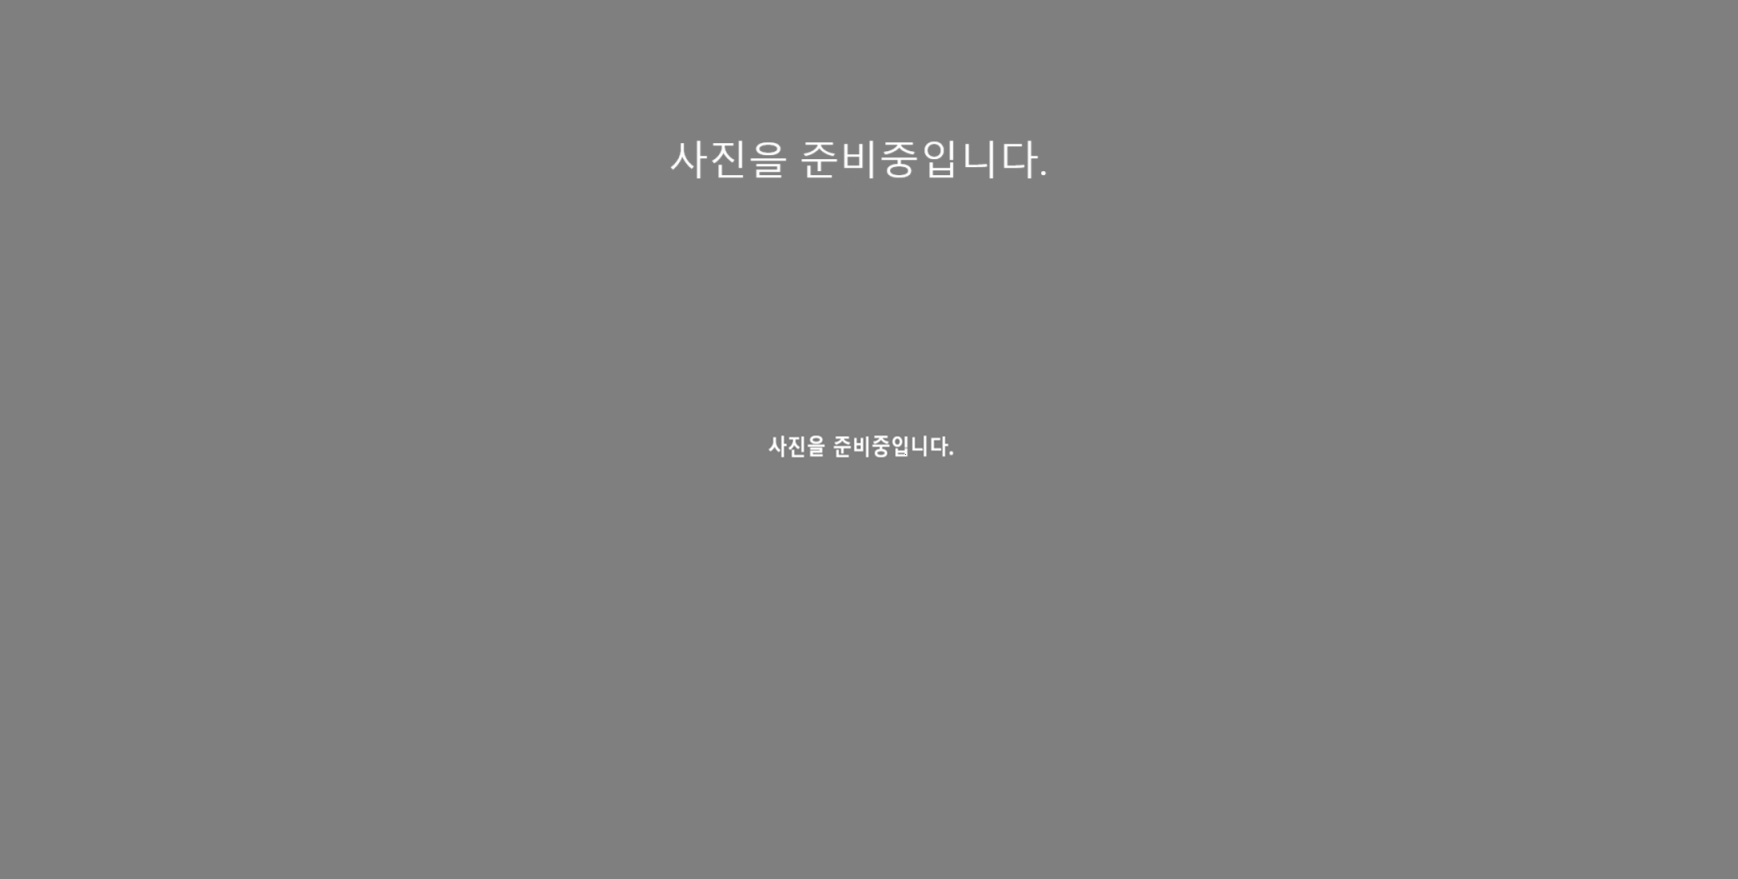
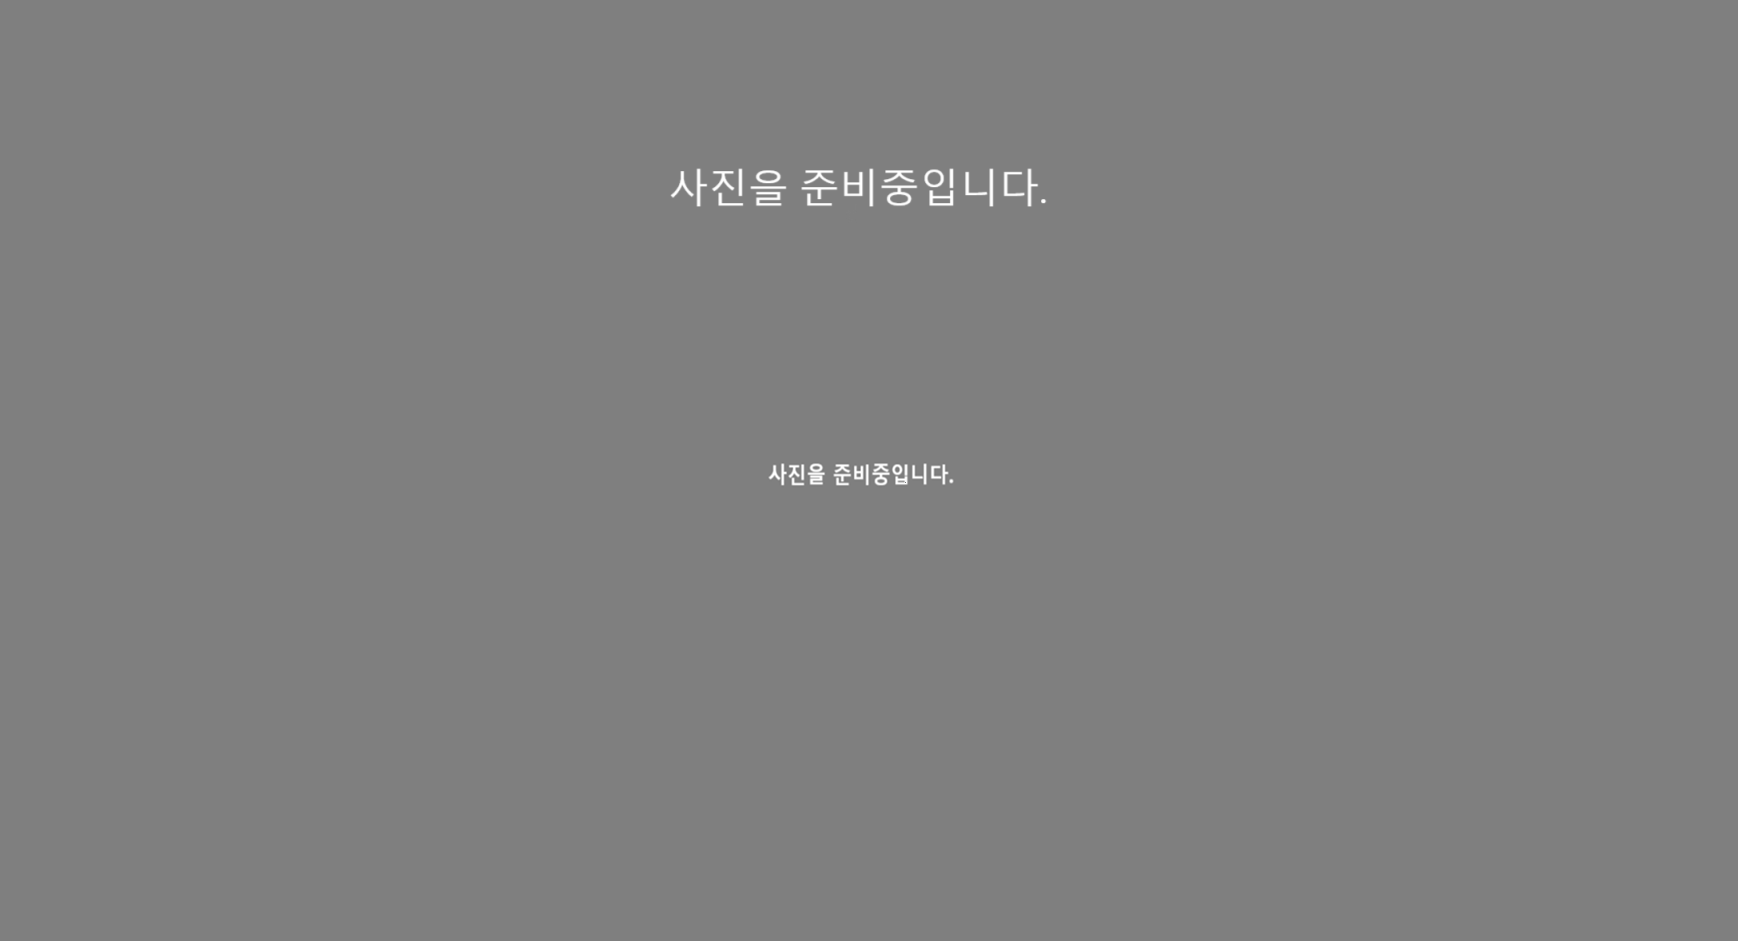
사진 크기 조절

Changed region(s): [[0.3728, 0.1536, 0.5903, 0.215], [0.435, 0.4915, 0.5593, 0.5222]]

diff --git a/revanced-tips/tips.js b/revanced-tips/tips.js
@@ -166,23 +166,26 @@ function tips_row_handler(category_data, access_key) {
 // 개별 아이템 HTML 생성
 function create_item_html(element) {
     return `
-    <div id="item_data" style="margin: 10px 0;">
-        <div class="item_title" id="item_title">
-            ${element["title"]}
-        </div>
-        <div class="item_descriptions" id="item_descriptions">
-            ${revanced_tips_descriptions_handler(element["descriptions"])}
-        </div>
-        <div class="item_images" id="item_images">
-            ${revanced_tips_images_handler(element["images"])}
-        </div>
-    </div>`;
+        <div id="item-container" style="margin: 10px 0;">
+            <div class="item-title" id="item-title">
+                ${element["title"]}
+            </div>
+            <div class="item-description" id="item-description">
+                ${revanced_tips_descriptions_handler(element["descriptions"])}
+            </div>
+            
+            <div class="item-image-container" id="item-image-container">
+                <div class="item-image-wrapper">
+                    ${revanced_tips_images_handler(element["images"])}
+                </div>
+            </div>
+        </div>`;
 }
 
 // 설명 추가 처리자
 function revanced_tips_descriptions_handler(descriptions) {
     return descriptions.map(description => `
-        <div class="item_description">
+        <div class="item-description">
             ${description}
         </div>
     `).join('');
@@ -190,61 +193,45 @@ function revanced_tips_descriptions_handler(descriptions) {
 
 // 사진 추가 처리자
 function revanced_tips_images_handler(images) {
-    return images.map(image => `<img src="${image}" class="item_image" id="item_image">`).join('');
-}
+    return images.map(image => `<img src="${image}" class="item-image" id="item-image">`).join('');}
 
 // 사진 스타일 처리자
 function images_style_handler() {
-    const item_images = document.querySelectorAll("#item_images");
-    const images = document.querySelectorAll("#item_image");
+    const imageContainer = document.querySelectorAll("#item-image-container");
+    const imageWrapper = document.querySelectorAll(".item-image-wrapper");
+    const images = document.querySelectorAll("#item-image");
 
-    item_images.forEach(element => {
-        element.style.display = "inline-flex"; // 디스플레이로 변경
+    // imageContainer 스타일 적용
+    imageContainer.forEach(element => {
+        element.style.display = "flex"; // 디스플레이로 변경
+        element.style.justifyContent = "center"; // 중앙 정렬
+        element.style.maxWidth = "100%"; // 부모 요소의 너비
+        element.style.maxHeight = "100%"; // 부모 요소의 높이
+    });
+
+    // imageWrapper 스타일 적용
+    imageWrapper.forEach(element => {
+        element.style.display = "flex"; // 디스플레이로 변경
         element.style.borderRadius = "20px"; // 모서리 둥글게
-        element.style.border = "3px solid #ccc"; // 경계선 추가
+        element.style.border = "2px solid #ccc"; // 경계선 추가
         element.style.overflowX = "auto"; // 가로 스크롤 활성화
         element.style.overflowY = "auto"; // 세로 스크롤 활성화
         element.style.whiteSpace = "nowrap"; // 이미지가 한 줄에 표시되도록 설정
-        element.style.padding = "5px"; // 패딩 추가
-        element.style.maxWidth = "100%"; // 부모 요소의 너비
-        element.style.maxHeight = "100%"; // 부모 요소의 높이
-        element.style.width = "auto"; // 너비 자동 조정
-        element.style.height = "auto"; // 높이는 자동 조정
         element.style.alignItems = "center"; // 중앙 정렬
-
-        // element.style.marginTop = "5px"
         element.style.marginLeft = "8px";
         element.style.marginRight = "8px";
-        // element.style.marginBottom = "5px"
+        element.style.maxWidth = "100%"; // 부모 요소의 너비
+        element.style.maxHeight = "100%"; // 부모 요소의 높이
     });
 
-
+    // images 스타일 적용
     images.forEach(element => {
-        // element.style.display = "inline-flex"; // 디스플레이로 변경
         element.style.borderRadius = "20px"; // 이미지를 둥글게
-
-        element.style.marginTop = "8px"
-        element.style.marginLeft = "5px";
-        element.style.marginRight = "5px";
-        element.style.marginBottom = "8px"
-
+        element.style.margin = "8px 5px"; // 여백 설정
         element.style.maxWidth = "100%"; // 사진의 최대 너비를 부모 요소에 맞춤
-
-
-        // User-Agent에 따라 스타일 설정
-        const userAgent = navigator.userAgent;
-        if (userAgent.includes("Windows")) {
-            // PC 기기일 경우
-            element.style.maxHeight = "800px"; // 최대 높이
-        } else {
-            // 모바일 기기일 경우
-            element.style.maxHeight = "600px"; // 최대 높이
-        }
-
-        element.style.width = "auto"; // 너비 자동 조정 
         element.style.flexShrink = "0"; // 이미지가 줄어들지 않도록 설정
-
     });
+
 }
 
 

diff --git a/revanced-tips/utils.js b/revanced-tips/utils.js
@@ -18,7 +18,7 @@ export function apply_style_based_on_user_agent(element, max_height) {
     } else {
         // 모바일 기기일 경우
         element.style.minWidth = "auto";
-        element.style.maxWidth = "700px";
+        element.style.maxWidth = "800px";
         element.style.minHeight = max_height;
         element.style.maxHeight = max_height;
     }
@@ -41,5 +41,5 @@ export function element_default_style(element, font_size, color) {
     element.style.fontSize = font_size; // 폰트 사이즈
     element.style.textAlign = "center"; // 텍스트 중앙 정렬
     element.style.alignItems = "center"; // 수직 중앙 정렬
-    // element.style.justifyContent = "center"; // 수평 중앙 정렬
+    element.style.justifyContent = "center"; // 수평 중앙 정렬
 }
